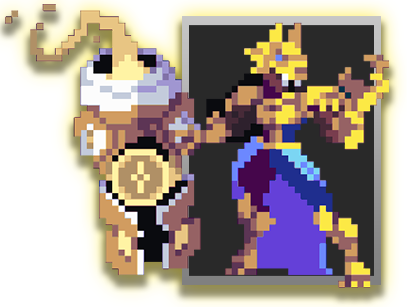
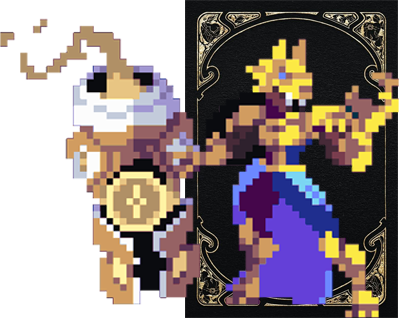
"Character Screen Updated (not 2nd player)"

diff --git a/MimalaFinal/MimalaFinal/src/state/CharacterSelection.java b/MimalaFinal/MimalaFinal/src/state/CharacterSelection.java
@@ -21,7 +21,7 @@ public class CharacterSelection extends JPanel {
     public CharacterSelection(JFrame frame, String mode) {
         this.frame = frame;
         this.mode = mode;
-        characterSelectionBg = new ImageIcon("MimalaFinal\\MimalaFinal\\src\\assets\\CharacterSelectionScreen\\CharacterSelectOff.png");
+        characterSelectionBg = new ImageIcon("MimalaFinal\\MimalaFinal\\src\\assets\\CharacterSelectionScreen\\CharacterSelect_BGcombine.png");
 
         setLayout(null);  // Absolute layout
         setPreferredSize(new Dimension(1920, 1080));
@@ -30,14 +30,14 @@ public class CharacterSelection extends JPanel {
 
     private void setupButtons() {
         // Create hover buttons for each character
-        createCharacterButton("Pyrothar", "MimalaFinal\\MimalaFinal\\src\\assets\\CharacterSelectionScreen\\Character_hover\\Pyrothar_hover.png", 273, 199);
-        createCharacterButton("Azurox", "MimalaFinal\\MimalaFinal\\src\\assets\\CharacterSelectionScreen\\Character_hover\\Azurox_hover.png", 583, 197);
-        createCharacterButton("Zenfang", "MimalaFinal\\MimalaFinal\\src\\assets\\CharacterSelectionScreen\\Character_hover\\Zenfang_hover.png", 902, 197);
-        createCharacterButton("Auricannon", "MimalaFinal\\MimalaFinal\\src\\assets\\CharacterSelectionScreen\\Character_hover\\Auricannon_hover.png", 1145, 276);
-        createCharacterButton("Vexmorth", "MimalaFinal\\MimalaFinal\\src\\assets\\CharacterSelectionScreen\\Character_hover\\Vexmorth_hover.png", 273, 545);
-        createCharacterButton("Astridra", "MimalaFinal\\MimalaFinal\\src\\assets\\CharacterSelectionScreen\\Character_hover\\Astrida_hover.png", 599, 545);
-        createCharacterButton("Varkos", "MimalaFinal\\MimalaFinal\\src\\assets\\CharacterSelectionScreen\\Character_hover\\Varkos_hover.png", 885, 598);
-        createCharacterButton("Ignisveil", "MimalaFinal\\MimalaFinal\\src\\assets\\CharacterSelectionScreen\\Character_hover\\Ignisveil_hover.png", 1234, 545);
+        createCharacterButton("Pyrothar", "MimalaFinal\\MimalaFinal\\src\\assets\\CharacterSelectionScreen\\Character_hover\\Pyrothar_hover.png", 614, 223);
+        createCharacterButton("Azurox", "MimalaFinal\\MimalaFinal\\src\\assets\\CharacterSelectionScreen\\Character_hover\\Azurox_hover.png", 325, 243);
+        createCharacterButton("Zenfang", "MimalaFinal\\MimalaFinal\\src\\assets\\CharacterSelectionScreen\\Character_hover\\Zenfang_hover.png", 982, 245);
+        createCharacterButton("Auricannon", "MimalaFinal\\MimalaFinal\\src\\assets\\CharacterSelectionScreen\\Character_hover\\Auricannon_hover.png", 1140, 243);
+        createCharacterButton("Vexmorth", "MimalaFinal\\MimalaFinal\\src\\assets\\CharacterSelectionScreen\\Character_hover\\Vexmorth_hover.png", 349, 610);
+        createCharacterButton("Astridra", "MimalaFinal\\MimalaFinal\\src\\assets\\CharacterSelectionScreen\\Character_hover\\Astrida_hover.png", 657, 614);
+        createCharacterButton("Varkos", "MimalaFinal\\MimalaFinal\\src\\assets\\CharacterSelectionScreen\\Character_hover\\Varkos_hover.png", 847, 614);
+        createCharacterButton("Ignisveil", "MimalaFinal\\MimalaFinal\\src\\assets\\CharacterSelectionScreen\\Character_hover\\Ignisveil_hover.png", 1249, 535);
     }
 
     private void createCharacterButton(String characterName, String hoverImagePath, int x, int y) {
